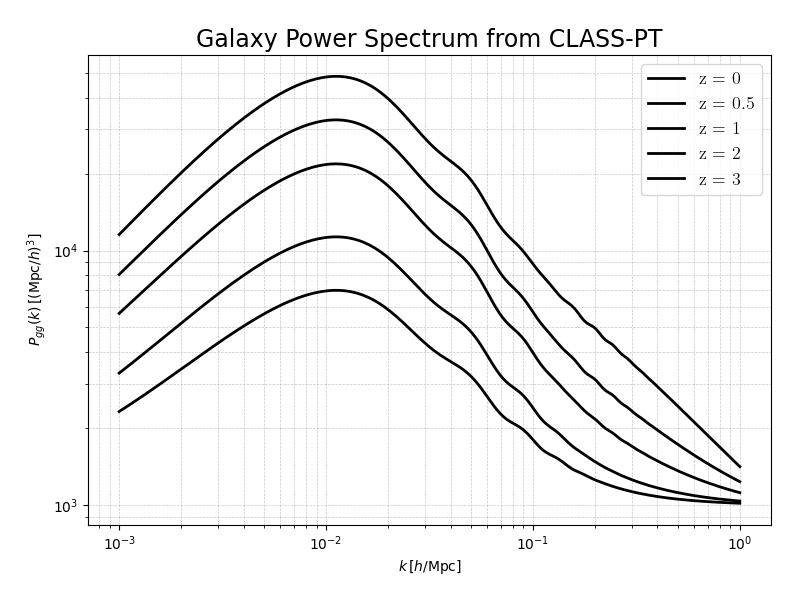
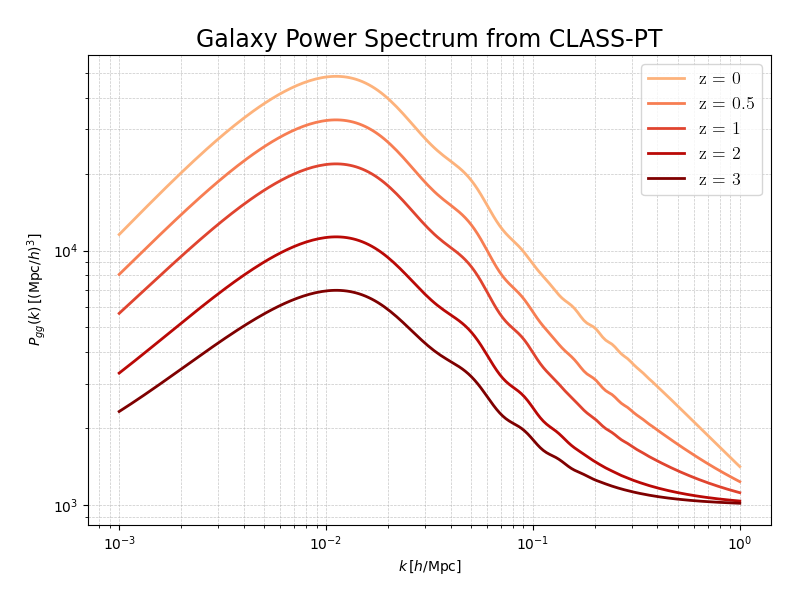
Updated plot color scheme

diff --git a/src/planck_lcdm_classpt.py b/src/planck_lcdm_classpt.py
@@ -60,7 +60,7 @@ for z in z_vals:
     np.savetxt(fname_txt, np.column_stack((k, Pk_gg)), header="k [h/Mpc]   P(k) [(Mpc/h)^3]")
     print(f"Saved {fname_txt}")
 
-    color = z_colors.get(z, "black")  # fallback is black
+    color = z_colors.get(str(z), "black")  # fallback is black
     plt.loglog(k, Pk_gg, label=f"z = {z}", color=color, linewidth=2)
     cosmo.struct_cleanup()
     cosmo.empty()
